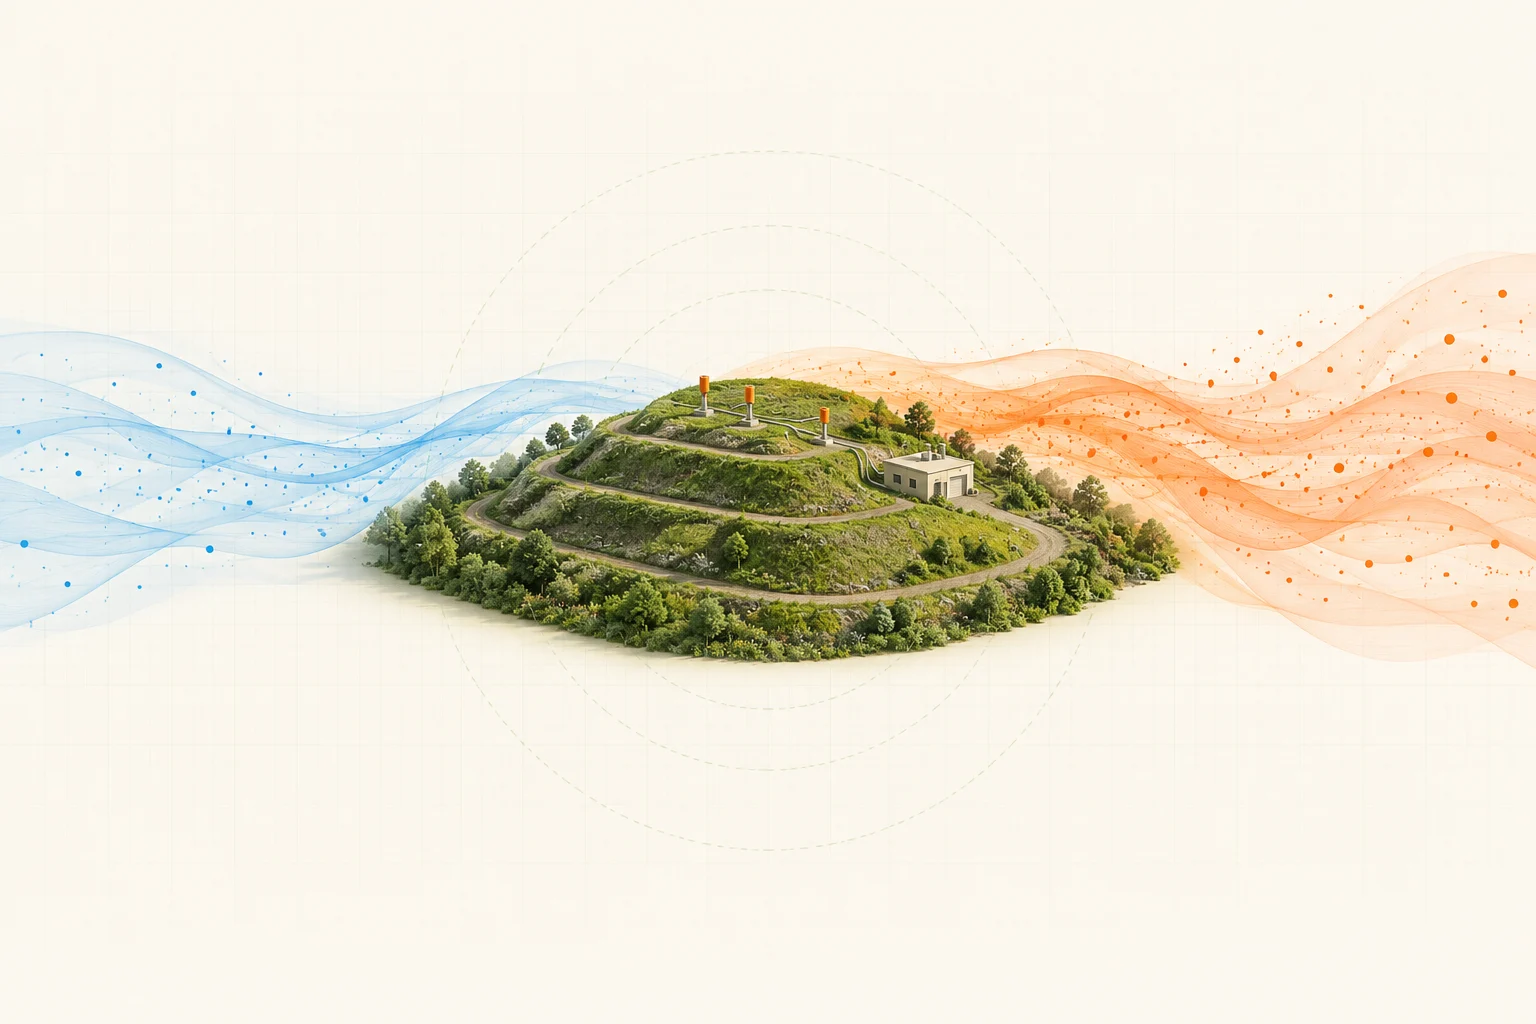
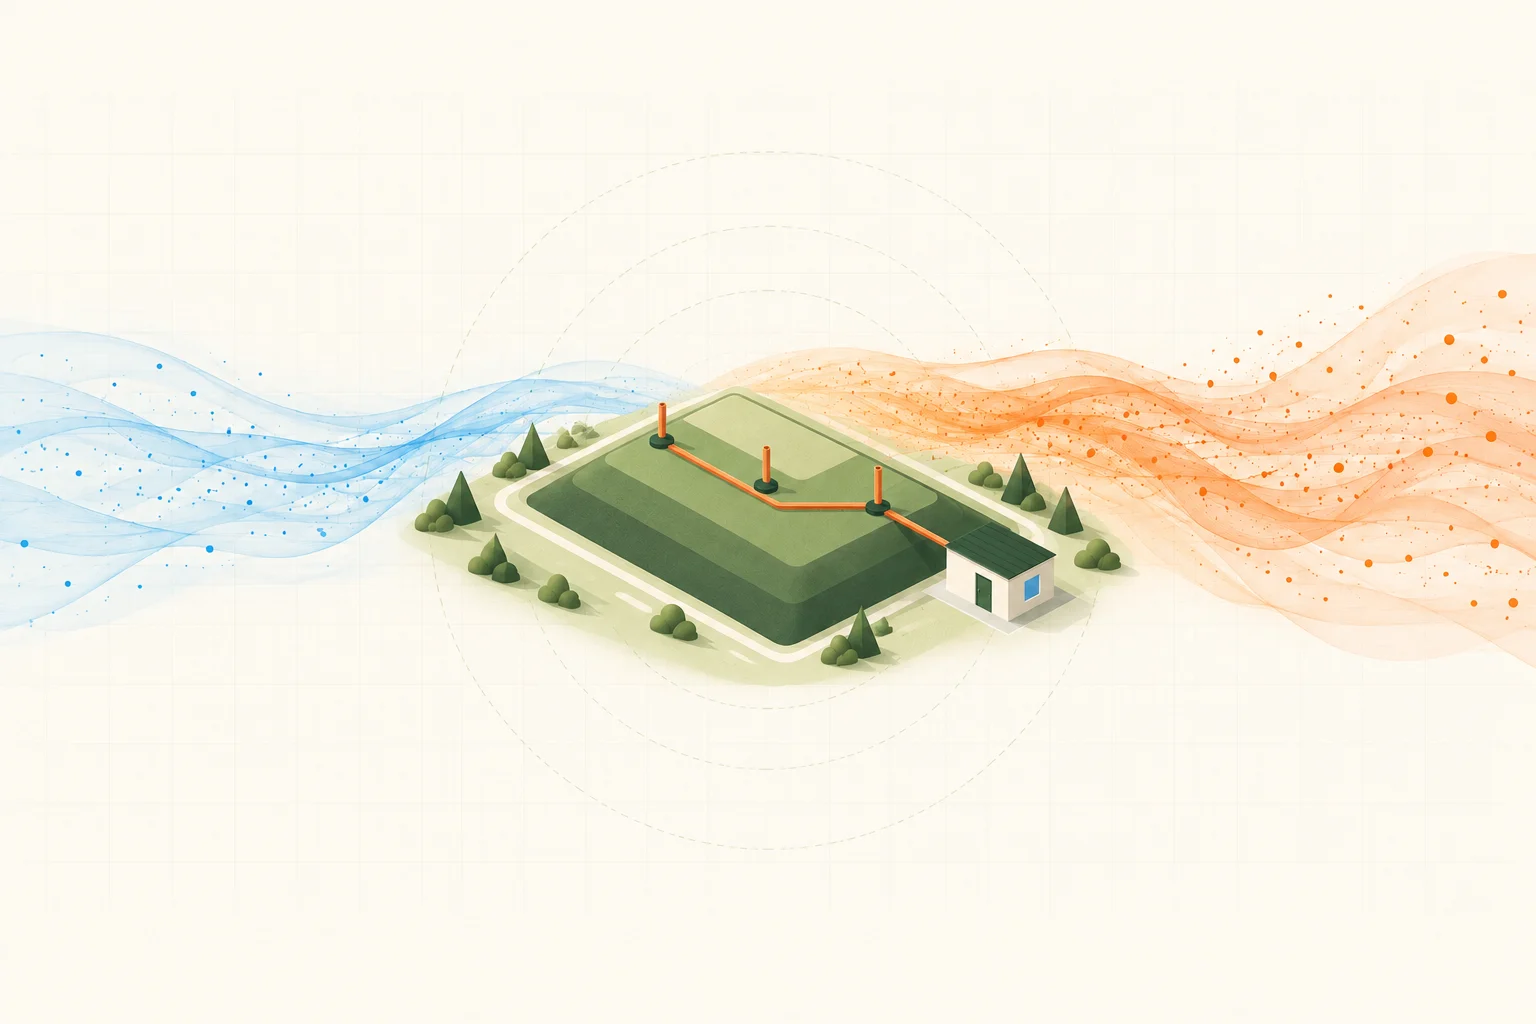
Refine homepage illustrations, coverage and methane explanation

Changed region(s): [[0.1875, 0.3438, 0.7812, 0.6875], [0.75, 0.4062, 0.7812, 0.4375]]

diff --git a/web/src/pages/home/HomePage.tsx b/web/src/pages/home/HomePage.tsx
@@ -1,5 +1,5 @@
 import { useEffect } from "react";
-import { useData } from "../../data";
+import { country, useData } from "../../data";
 import { defaultAssumptions } from "../../data/assumptions";
 import { JOURNEY } from "../../data/journey";
 import { hrefFor } from "../../route";
@@ -22,7 +22,11 @@ const BENEFITS = [
 
 export function HomePage() {
   const { sites } = useData();
-  const australia = sites.filter((site) => site.state !== "NZ").length;
+  const coverage = new Map<string, number>();
+  for (const site of sites) {
+    const name = country(site);
+    coverage.set(name, (coverage.get(name) ?? 0) + 1);
+  }
   const revealRoot = useHomeReveal();
 
   useEffect(() => {
@@ -53,13 +57,13 @@ export function HomePage() {
             <p className="fine">Explore new capture projects and improvements to existing systems.</p>
           </div>
           <figure className="home-visual home-hero-visual" data-reveal="right" data-reveal-delay="1">
-            <img src={landfillLandscape} width={1448} height={1086} fetchPriority="high" alt="Detailed countryside illustration of a terraced landfill, orange gas collection pipes, a generator building and an observation satellite" />
+            <img src={landfillLandscape} width={1448} height={1086} fetchPriority="high" alt="Pastel illustration of a sage-green terraced landfill with orange gas collection pipes, a cream generator building and an observation satellite" />
             <figcaption><span className="home-live-dot" aria-hidden="true" /> Collect landfill gas · Generate electricity <span>Illustration</span></figcaption>
           </figure>
         </section>
 
         <dl className="home-facts" aria-label="Project coverage">
-          <div data-reveal="up"><dt><HomeIcon name="landfill" />{sites.length} real landfills</dt><dd>{australia} in Australia · {sites.length - australia} in New Zealand</dd></div>
+          <div data-reveal="up"><dt><HomeIcon name="landfill" />{sites.length} landfills to explore</dt><dd>{[...coverage].map(([name, count]) => `${count} in ${name}`).join(" · ")}</dd></div>
           <div data-reveal="up" data-reveal-delay="1"><dt><HomeIcon name="satellite" />Satellite + wind data</dt><dd>Sentinel-5P methane · ERA5-Land winds</dd></div>
           <div data-reveal="up" data-reveal-delay="2"><dt><HomeIcon name="leaf" />One {defaultAssumptions.horizonYear} horizon</dt><dd>Compare the impact of acting sooner</dd></div>
         </dl>
@@ -69,7 +73,6 @@ export function HomePage() {
         <section id="home-how" className="home-section" aria-labelledby="home-how-title">
           <div className="home-section-head" data-reveal="up">
             <div><h2 id="home-how-title">How it works</h2><p className="home-section-subtitle">Four steps from a landfill to a funding decision.</p></div>
-            <p>Start with a site, check the methane signal, then explore a capture project. A separate model estimates what it could cost, earn and achieve by 2035.</p>
           </div>
           <ol className="steps home-steps">
             {JOURNEY.map(([step, text], index) => (
@@ -89,7 +92,12 @@ export function HomePage() {
           <WindComparison />
           <div className="home-evidence-note" data-reveal="up">
             <strong>A signal, with context.</strong>
-            <p>The satellite gives a screening signal, not proof. Farms, wetlands and other facilities may contribute, so a higher downwind reading does not establish the landfill’s emissions.</p>
+            <div>
+              <p><strong>We compare methane on either side of the landfill.</strong> The upwind side is where the wind comes from; the downwind side is where it travels towards. For each satellite pass, we use wind data to identify these sides and compare average methane readings in areas 10–30 km from the site.</p>
+              <p><strong>A higher downwind reading can point to a methane source nearby.</strong> We look for a repeated increase above the upwind background across multiple usable passes, allowing for uncertainty. A clear increase flags the area for closer investigation. Without one, emissions may still be present but too diluted or poorly covered for the satellite to detect.</p>
+              <p><strong>The next step is to identify the source.</strong> Sentinel-5P observes a broad area, which may include farms, wetlands and other facilities as well as the landfill. The comparison helps decide where to investigate; it cannot confirm the landfill’s contribution or quantify its emissions. Our separate project model estimates potential costs, returns and emissions savings.</p>
+              <a className="home-source" href="https://www.esa.int/Applications/Observing_the_Earth/Methane_and_ozone_data_products_from_Copernicus_Sentinel-5P" target="_blank" rel="noreferrer">How wind affects methane observations · ESA ↗</a>
+            </div>
           </div>
         </section>
 

diff --git a/web/src/pages/home/HomeStory.tsx b/web/src/pages/home/HomeStory.tsx
@@ -1,10 +1,12 @@
+import { HomeIcon } from "./HomeIcon";
+
 /** Separate the emissions problem, the investment question and the proposed response. */
 export function HomeStory() {
   return (
     <section className="home-section" aria-label="The problem, where to invest and the solution">
       <div className="home-problem-solution">
         <article className="card home-story-card home-problem" data-reveal="left">
-          <div className="home-story-heading"><span aria-hidden="true">01</span><h2>The problem</h2></div>
+          <div className="home-story-heading"><HomeIcon name="methane" className="home-story-icon" /><h2>The problem</h2></div>
           <p className="home-story-lede">Landfills leak methane.</p>
           <p>Buried food scraps and other organic waste break down without oxygen, producing landfill gas that contains methane and CO₂.</p>
           <p>Escaping methane contributes to climate change. It also means losing a fuel that could be collected and used to generate electricity.</p>
@@ -12,14 +14,14 @@ export function HomeStory() {
         </article>
 
         <article className="card home-story-card home-statement" data-reveal="left" data-reveal-delay="1">
-          <div className="home-story-heading"><span aria-hidden="true">02</span><h2>Where to invest</h2></div>
+          <div className="home-story-heading"><HomeIcon name="investment" className="home-story-icon" /><h2>Where to invest</h2></div>
           <p className="home-story-lede">Which upgrades are worth funding?</p>
           <p>Some landfills already collect gas and generate electricity. With limited budgets, councils and operators need to know where additional capture could deliver the most value.</p>
           <p>The question is what to fund first: how much methane could be captured, what would the project cost, and could electricity sales help pay for it?</p>
         </article>
 
         <article className="card home-story-card home-solution" data-reveal="left" data-reveal-delay="2">
-          <div className="home-story-heading"><span aria-hidden="true">03</span><h2>The solution</h2></div>
+          <div className="home-story-heading"><HomeIcon name="energy" className="home-story-icon" /><h2>The solution</h2></div>
           <p className="home-story-lede">Capture more gas. Generate power.</p>
           <p>Wells and pipes collect landfill gas. After treatment, it can fuel engines that generate electricity for use on site or sale to the grid.</p>
           <ol className="home-energy-process" aria-label="How gas becomes electricity">

diff --git a/web/src/pages/home/home.css b/web/src/pages/home/home.css
@@ -61,7 +61,8 @@
 .home-problem-solution h2 { font-size: clamp(30px, 2.6vw, 38px); font-weight: 500; line-height: 1.15; }
 .home-story-card:not(:last-child)::after { content: "→"; position: absolute; right: -25px; top: 41px; width: 24px; text-align: center; color: var(--evergreen); font-size: 20px; }
 .home-story-heading { display: flex; align-items: start; gap: 14px; margin-bottom: 24px; }
-.home-story-heading > span { flex: none; padding-top: 8px; font-family: var(--serif); font-size: 17px; color: var(--iron); }
+.home-story-icon { flex: none; width: 32px; height: 32px; margin-top: 4px; color: var(--evergreen); }
+.home-story-icon svg { display: block; width: 100%; height: 100%; }
 .home-problem-solution .home-statement { background: var(--evergreen-soft); }
 .home-solution .home-story-heading > span { color: var(--tangerine); }
 .home-problem-solution p { margin: 18px 0 0; font-size: 16px; line-height: 1.7; color: var(--iron); }
@@ -111,6 +112,7 @@
 .home-wind-visual figcaption > span:last-child { font-family: var(--sans); font-size: 12px; }
 .home-evidence-note { display: grid; grid-template-columns: auto 1fr; gap: 24px; margin-top: 18px; padding: 18px 24px; background: var(--sky-soft); border-radius: var(--radius); font-size: 14px; color: var(--ink); }
 .home-evidence-note p { margin: 0; color: var(--muted); }
+.home-evidence-note p + p { margin-top: 12px; }
 
 /* Benefits and final action. */
 .home-benefits { display: grid; grid-template-columns: repeat(3, 1fr); gap: 20px; }

diff --git a/web/src/pages/home/HomeIcon.tsx b/web/src/pages/home/HomeIcon.tsx
@@ -1,10 +1,22 @@
-type HomeIconName = "landfill" | "satellite" | "leaf";
+type HomeIconName = "landfill" | "satellite" | "leaf" | "methane" | "investment" | "energy";
 
 /** Small decorative icons; detailed scene artwork lives in assets/home. */
-export function HomeIcon({ name }: { name: HomeIconName }) {
+export function HomeIcon({ name, className = "home-fact-icon" }: { name: HomeIconName; className?: string }) {
   return (
-    <span className="home-fact-icon" aria-hidden="true">
+    <span className={className} aria-hidden="true">
       <svg viewBox="0 0 48 48" fill="none" stroke="currentColor" strokeWidth="1.8" strokeLinecap="round" strokeLinejoin="round">
+        {name === "methane" && <>
+          <path d="M5 39h38M8 35l8-8h16l8 8" />
+          <path d="M16 22c-6-7 6-8 0-15m9 15c-6-7 6-8 0-15m9 15c-6-7 6-8 0-15" stroke="#e58f65" />
+        </>}
+        {name === "investment" && <>
+          <path d="M8 39V27h8v12m5 0V20h8v19m5 0V12h8v27M5 39h38" />
+          <path d="m8 19 12-8 9 3L40 5m-8 0h8v8" stroke="#e58f65" />
+        </>}
+        {name === "energy" && <>
+          <path d="M14 37h20m-18 5h16M16 32c0-5-7-7-7-16a15 15 0 0 1 30 0c0 9-7 11-7 16H16Z" />
+          <path d="m26 9-8 13h7l-3 9 10-14h-8l2-8Z" fill="#e58f65" stroke="#e58f65" />
+        </>}
         {name === "landfill" && <>
           <path d="M5 34 16 20l6 5 8-12 13 21H5Z" fill="#d9e2ce" />
           <path d="m5 34 11-9 7 6m0-6 7-7 13 16M5 37h38" />

diff --git a/web/src/components/basemap.ts b/web/src/components/basemap.ts
@@ -13,16 +13,19 @@ export const COLORS = {
   land: "#eeebe1",
 };
 
+const GLOBE_COLORS = { ocean: "#7da5b8", land: "#eeebe1" };
+
 /** Self-contained style: ocean and land, with no network requests. No coastline layer:
  * polygons cut at the antimeridian would draw a stray line across the globe. */
 export function bundledStyle(globe: boolean): StyleSpecification {
+  const colors = globe ? GLOBE_COLORS : COLORS;
   return {
     version: 8,
     ...(globe ? { projection: { type: "globe" } } : {}),
     sources: { land: { type: "geojson", data: land } },
     layers: [
-      { id: "ocean", type: "background", paint: { "background-color": COLORS.ocean } },
-      { id: "land", type: "fill", source: "land", paint: { "fill-color": COLORS.land } },
+      { id: "ocean", type: "background", paint: { "background-color": colors.ocean } },
+      { id: "land", type: "fill", source: "land", paint: { "fill-color": colors.land } },
     ],
   };
 }

diff --git a/web/src/styles.css b/web/src/styles.css
@@ -262,7 +262,7 @@ a.ghost:hover { border-color: var(--iron); }
 @media (max-width: 600px) { .nav:not(.nav-home) .brand-wordmark { display: none; } }
 
 /* Find */
-.find { position: relative; height: calc(100svh - 73px); min-height: 640px; background: radial-gradient(circle at 65% 50%, #eef1ea 0%, var(--bg) 60%); overflow: hidden; }
+.find { position: relative; height: calc(100svh - 73px); min-height: 640px; background: radial-gradient(ellipse at 68% 48%, #d1ddd5 0%, #e3e9df 48%, var(--bg) 85%); overflow: hidden; }
 .globe-wrap { position: absolute; inset: 0; }
 .globe { width: 100%; height: 100%; }
 .globe-loading { display: grid; place-items: center; color: var(--muted); }

diff --git a/web/src/components/Nav.tsx b/web/src/components/Nav.tsx
@@ -15,7 +15,6 @@ export function Nav({ route, site }: { route: Route; site: Site | null }) {
       {route.page === "home" ? (
         <div className="home-nav-links">
           <a className="home-nav-link" href={hrefFor({ page: "home" })} aria-current="page">Home</a>
-          <a className="home-nav-link home-nav-secondary" href={hrefFor({ page: "find" })}>Explore landfills</a>
           <button className="home-nav-link home-nav-secondary" type="button" onClick={showHowItWorks}>How it works</button>
           <a className="cta" href={hrefFor({ page: "find" })}>Explore landfills ↗</a>
         </div>

diff --git a/docs/HOMEPAGE_ASSETS.md b/docs/HOMEPAGE_ASSETS.md
@@ -14,15 +14,19 @@ Create a single botanical branch cluster as a transparent PNG cutout for the edg
 
 ### landfill-energy
 
-Saved asset: `web/src/assets/home/landfill-energy.webp`.
+Saved asset: `web/src/assets/home/landfill-energy.webp` (1448 × 1086; approximately 55 KB).
 
-Create a high quality detailed editorial environmental illustration for a climate project website, landscape 4:3 composition. A small terraced, grass-covered landfill mound in rolling countryside of Australia/New Zealand, viewed from elevated three-quarter angle. Three orange vertical gas collection wells with dark bases on the mound connected by a tidy orange pipe to a small cream generator building with dark forest-green roof at lower right. A small scientifically plausible observation satellite with blue solar panels in the upper left sky and a fine blue dashed observation line toward the mound. Subtle orange dotted gas wisps above the wells are a conceptual illustration. Grassy paths around the mound, dense detailed pine and native broadleaf trees, wildflowers, tiny stones and rich textured meadows, distant softly hazy green hills. Warm ivory sun, pale powder-blue sky. Sophisticated painterly 3D miniature, realistic botanical textures, softly lit, refined matte paper grain, not flat vector, not cartoon, not glossy plastic. Palette forest green, sage, olive, ivory, restrained coral-orange and powder blue. Beautiful crisp detail and uncluttered central infrastructure; welcoming natural landscape. No text, labels, logos, border or watermark. Keep all important objects within central 85% so responsive cropping works.
+Regenerated from the user-supplied pastel landfill reference on 4 October 2026. The reference guides subject, palette and low-poly style; it is not an edit target.
+
+Use case: stylized-concept. Asset: homepage hero illustration, landscape 4:3. Image 1 is the user's style and subject reference, not an edit target. Create a polished new illustration very closely matching its calm pastel coloring, simple low-poly isometric forms, subtle matte paper grain and uncluttered scenery. A broad rectangular landfill mound with three stepped sage-green terraces and rounded corners, viewed from elevated three-quarter angle, dominates the lower two thirds. Exactly three slender tangerine gas collection wells with dark evergreen circular bases are connected by one orderly tangerine pipe running to a small cream engine shed at lower right, evergreen pitched roof, evergreen door and single pale-blue window. Cream access path surrounds the site, sparse evergreen cone trees and small round shrubs. Pale sage rolling hills, softly cloudy pale-blue sky and a warm cream circular sun upper right. A small evergreen satellite with two sky-blue solar panels upper left and a delicate dashed blue observation line toward the site. Restrained dashed tangerine wisps above the wells are conceptual methane indicators, not smoke. Colors: evergreen #273c2c, sage #dfe7df with muted olive terraces, sky #dbe6ee and #5899e2, warm off-white #f6f4ef, tangerine #e58f65. Preserve the reference's friendly minimal dimensional aesthetic; avoid dense realistic grass, flowers, intricate forests, glossy plastic or photographic detail. Entire landfill, engine shed and satellite visible within central 90% of frame so a 4:3 homepage card crops safely. No text, labels, logos, borders or watermark.
 
 ### wind-comparison
 
-Saved asset: `web/src/assets/home/wind-comparison.webp`.
+Saved asset: `web/src/assets/home/wind-comparison.webp` (1536 × 1024; approximately 72 KB).
 
-Create a detailed scientific editorial illustration, very wide landscape 3:2 image on warm off-white ivory background. Centered small realistic miniature green terraced landfill mound with three tiny orange collection wells and a small cream generator building. On the left, delicate translucent pale blue flowing wind ribbons and sparse small blue particles approach the landfill from left to right. On the right, delicate translucent warm orange flowing plume ribbons and more numerous small orange particles move away from the landfill left to right. All ribbons represent horizontal airflow; they should remain airy and subtle and leave substantial clear ivory negative space above and below. Fine faint sage dashed concentric circles centered on the landfill, very subtle cream grid background. Detailed realistic miniature grass, trees, paths, soft shadows, painterly textured 3D scientific visualization. Color palette matches an elegant green and ivory climate website, forest green, sage, blue, coral-orange. Landfill centered in middle 40% and vertically centered. Background methane on left, elevated methane plume on right, conceptual only. No text, lettering, arrows, titles, legends, border or watermark: labels will be added in HTML for accessibility. Calm, precise, beautifully detailed, not flat SVG and not cartoon.
+Edited with the existing wind comparison as Image 1 and the regenerated homepage scene as Image 2. The shared landfill design keeps the illustrations consistent. HTML labels and conceptual airflow remain separate from the artwork.
+
+Use case: infographic-diagram. Image 1 is the edit target: the existing upwind/downwind illustration. Image 2 is the identity and style reference: the new homepage landfill scene. Replace only the central landfill miniature and its immediate landscaping in Image 1 with a smaller version of the landfill from Image 2: the SAME broad rectangular three-terrace mound with rounded corners, muted sage and evergreen surfaces, exactly three slender tangerine gas wells with evergreen circular bases joined by one orange pipe to a cream engine shed at lower right with evergreen pitched roof, green door and blue window, cream perimeter access path and sparse cone trees/round shrubs. Match Image 2's low-poly geometry, calm pastel colors, matte paper grain and soft dimensional shadows. Retain Image 1's entire wide composition, warm off-white background, subtle grid and faint dashed concentric rings, blue translucent airflow ribbons entering from left and warm tangerine plume ribbons with more particles exiting right, all flowing left-to-right horizontally. Keep plume and airflow delicate; do not add vertical wisps to this diagram. Position the miniature around the horizontal center and 54% down the frame, contained in the middle 40% of width and middle 30% of height. Preserve generous blank upper third and bottom fifth for HTML labels. No satellite, sky, sun or hills in this diagram. No baked-in text, arrows, labels, logos, frame or watermark. Preserve landscape 3:2 canvas; composition must also safely crop to a 1.85:1 strip with the entire landfill visible.
 
 ### landscape-background
 

diff --git a/docs/DISCLOSURES.md b/docs/DISCLOSURES.md
@@ -16,6 +16,7 @@ Every external tool, library, dataset, API and AI tool used in this project. Kee
 
 | Dataset | Used for | Source | Status |
 |---|---|---|---|
+| ESA, Methane and ozone data products from Copernicus Sentinel-5P; INFLUX background methane research | Homepage explanation of upwind background, downwind enhancement and limits on attributing a signal to a landfill | https://www.esa.int/Applications/Observing_the_Earth/Methane_and_ozone_data_products_from_Copernicus_Sentinel-5P ; https://acp.copernicus.org/articles/20/4545/2020/acp-20-4545-2020.html | Checked 4 Oct 2026; app screening rules are documented separately in METHODOLOGY.md |
 | US EPA, Basic Information about Landfill Gas and Frequent Questions | Homepage explanation of methane formation, capture-to-electricity, combustion and waste diversion | https://www.epa.gov/lmop/basic-information-about-landfill-gas ; https://www.epa.gov/lmop/frequent-questions-about-landfill-gas | Background verified 4 Oct 2026 |
 | Sustainable Business Network, Climate Hack-tion: Build for 2035 | Event and COP31 context | https://sustainable.org.nz/learn/events/climate-hack-tion-challenge-build-for-2035/ | Event brief checked 4 Oct 2026 |
 | UNFCCC, official COP31 conference page | Homepage footer link to the UN climate summit; this project is not an official COP31 tool | https://unfccc.int/cop31 | Link checked 4 Oct 2026 |
